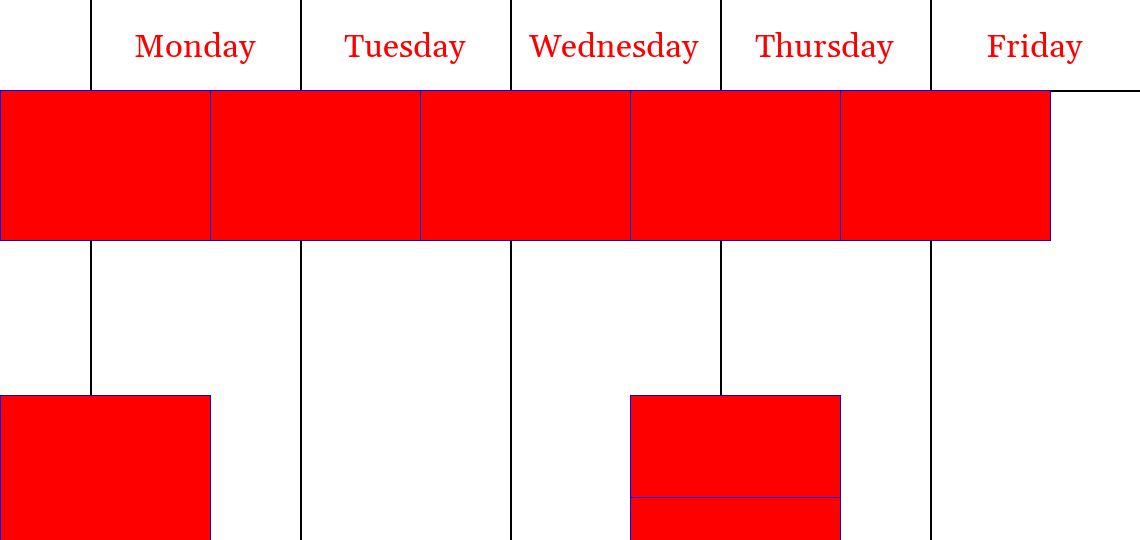
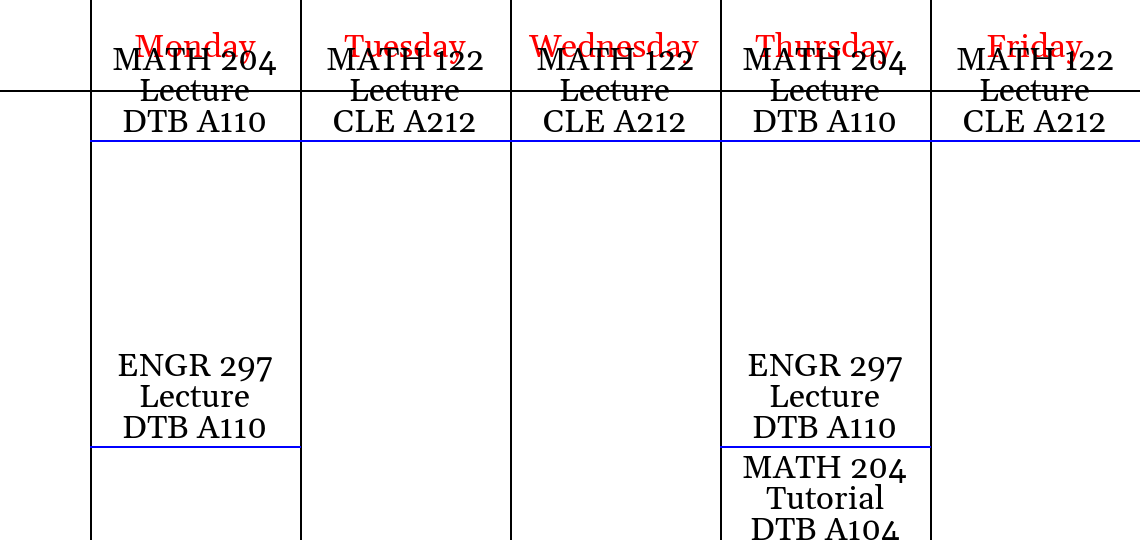
pass in the center of the text instead of corner

diff --git a/scheduleGenerator.py b/scheduleGenerator.py
@@ -17,6 +17,7 @@ dayOrdering = {
     "Sunday": 6,
 }
 dayFont = ImageFont.truetype(font="Gelasio-Regular.ttf", size=scale * 11)
+cellFont = ImageFont.truetype(font="Gelasio-Regular.ttf", size=scale * 11)
 
 
 class Schedule(object):
@@ -100,15 +101,26 @@ class Schedule(object):
         number_of_daily_events = map(len, daily_events)
         return max(number_of_daily_events)
 
-    def _draw_event(self, eventStr, xPos, yPos, color):
-        x, y = xPos + columnWidth / 2, yPos + cellHeight / 2
-        txtWidth, txtHeight = self.draw.multiline_textsize(eventStr)
+    def _draw_event(self, eventStr, xPos, yPos, txtColor, lineColor):
+        """
+        (xPos, yPos) represents the center of the bounding box.
+        """
+        txtWidth, txtHeight = self.draw.multiline_textsize(eventStr, font=cellFont)
         self.draw.multiline_text(
-            (x - txtWidth / 2, y - txtHeight / 2),
+            (xPos - txtWidth / 2, yPos - txtHeight / 2),
             eventStr,
-            fill=color,
+            fill=txtColor,
             align="center",
             spacing=0,
+            font=cellFont,
+        )
+        self.draw.line(
+            [
+                (xPos - columnWidth / 2, yPos + txtHeight / 2),
+                (xPos + columnWidth / 2, yPos + txtHeight / 2),
+            ],
+            fill=lineColor,
+            width=2,
         )
 
     def fill_schedule(self):
@@ -122,11 +134,13 @@ class Schedule(object):
             ) + minY
 
             for d in ev.days:
-                eventX = self.days.index(d) * columnWidth
-                self._draw_event(ev._get_formatted_event(), eventX, eventY, (0, 0, 0))
+                eventX = gutterWidth + (self.days.index(d) + 0.5) * columnWidth
+                self._draw_event(
+                    ev._get_formatted_event(), eventX, eventY, (0, 0, 0), (0, 0, 255),
+                )
 
-    def _group_events(self):
-        pass
+    def group_events(self):
+        groups = []
 
     def _get_absolute_start_end_time(self):
         startTime = 25 * 60
@@ -160,7 +174,7 @@ class Event(object):
         """
         Return an event string in schedule format.
         """
-        return f"{self.course}\n{self.eventType}\n{self.room}"
+        return f"{self.course}\n{self.eventType.capitalize()}\n{self.room}"
 
     def is_during(self, T):
         """
